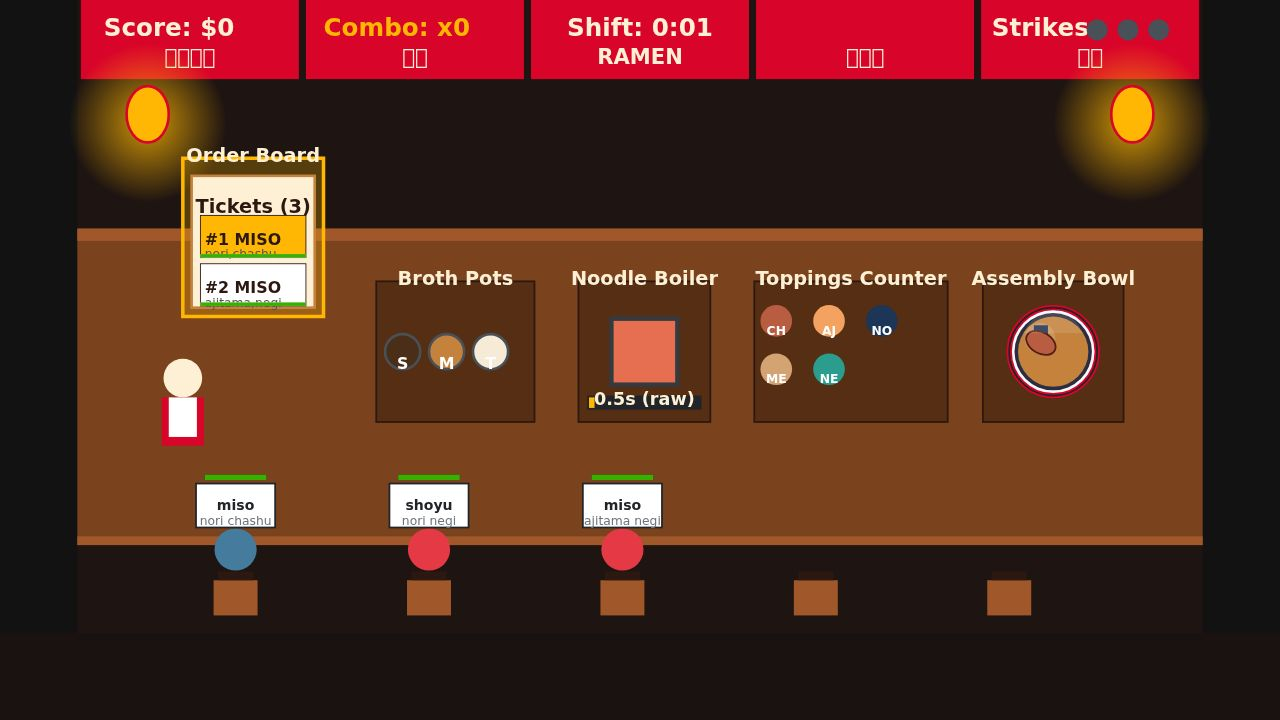
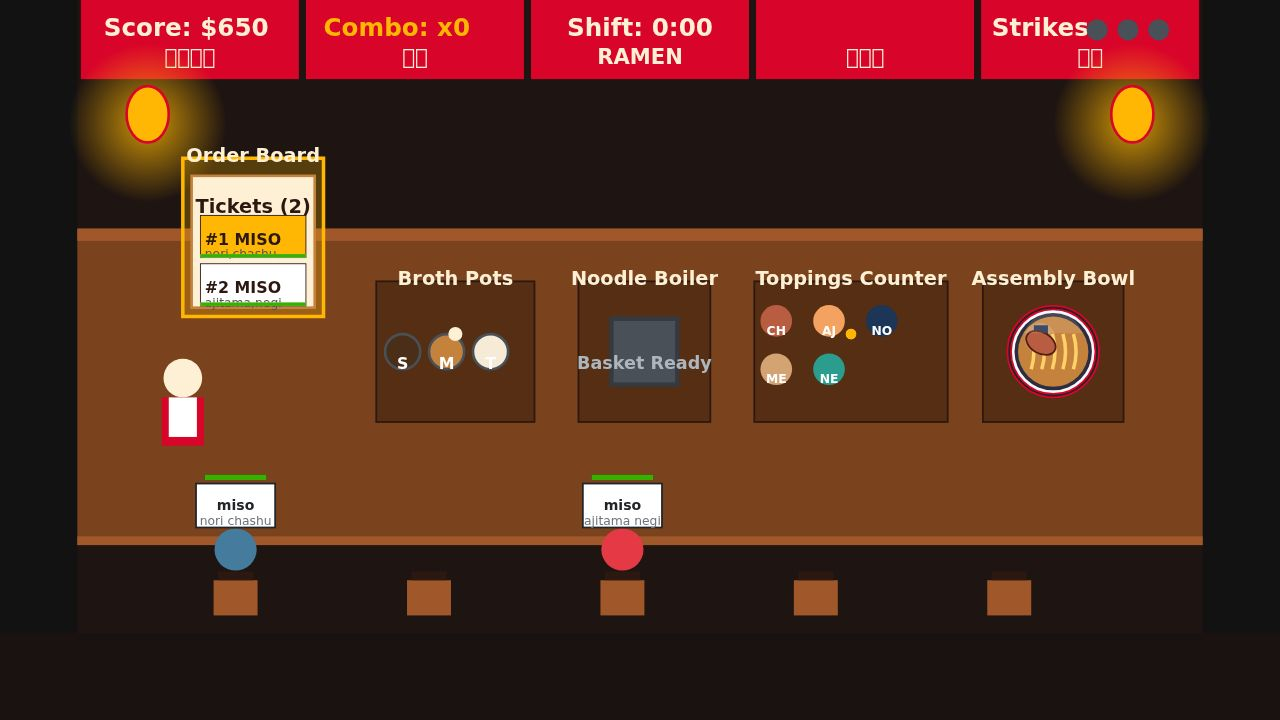
game: Ramen-ya Rush — serve frame staged as a finished bowl on the pass

diff --git a/game/src/shots.js b/game/src/shots.js
@@ -55,13 +55,13 @@ export function stageShot(name, world) {
     if (waitingOrder) {
       waitingOrder.state = ORDER_STATE.CLAIMED;
       world.state.claimedOrder = waitingOrder;
+      world.state.score = 650;
+      world.state.money = 124;
       world.interactStation('broth', waitingOrder.broth);
+      world.interactStation('noodles');
       world.state.boiler.timer = 5.0;
       world.interactStation('noodles');
       waitingOrder.toppings.forEach(t => world.interactStation('toppings', t));
-    }
-    for (let i = 0; i < 30; i++) {
-      world.step(STEP, { x: 0, y: 0 }, 0, null, true);
     }
     return { screen: SCREEN_PLAY, best: 850 };
   }
